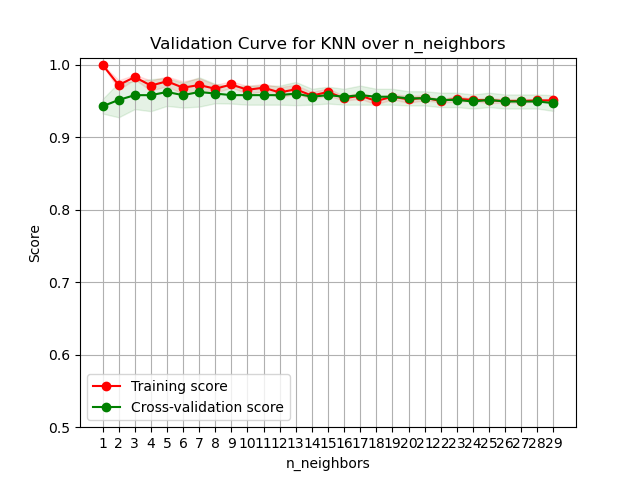
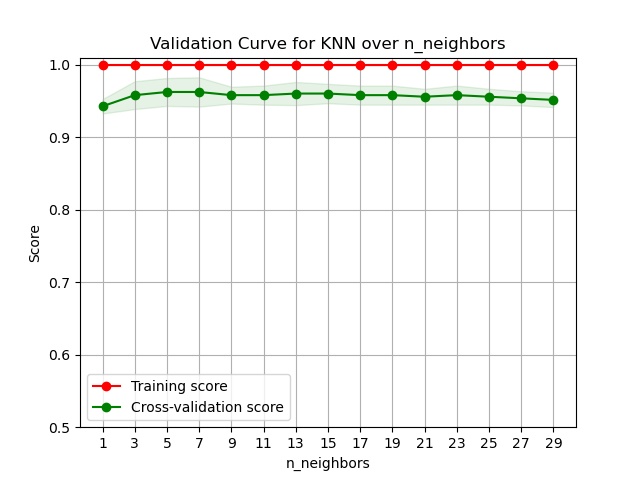
pr1 update figures

diff --git a/pr1/DT.py b/pr1/DT.py
@@ -9,15 +9,11 @@ import util
 
 class DecisionTree(object):
 
-    def __init__(self, dataset, verbose=False, max_depth=30, min_samples_leaf=10, min_samples_split=5, ccp_alpha=5):
+    def __init__(self, dataset, verbose=False):
         """
         decision tree initialization
         """
         self.verbose = verbose
-        self.max_depth = max_depth
-        self.min_samples_leaf = min_samples_leaf
-        self.min_samples_split = min_samples_split
-        self.ccp_alpha = ccp_alpha
         self.clf = None
         self.dataset = dataset
 
@@ -30,27 +26,27 @@ class DecisionTree(object):
 
         print("At depth:", clf_dt.tree_.max_depth)
         print("Decision Tree Accuracy on the Train set: ", clf_dt.score(X_train, y_train))
-        self.clf = clf_dt
 
-        params = {'max_depth': np.arange(1, self.max_depth+1),
-         'min_samples_split': np.arange(2, self.min_samples_split+1),
-         'min_samples_leaf': np.arange(1, self.min_samples_leaf+1),
-         'ccp_alpha': np.linspace(0, 0.035, self.ccp_alpha)}
+        params = {'max_depth': np.arange(1, 20),
+         'min_samples_leaf': np.arange(1, 20),
+         'ccp_alpha': np.linspace(0, 0.035, 20)}
 
-        gcv = GridSearchCV(estimator=clf_dt,param_grid=params)
+        gcv = GridSearchCV(estimator=clf_dt,param_grid=params, cv=4)
         gcv.fit(X_train,y_train)
         best_dt = gcv.best_estimator_
         print("Best parameters:", gcv.best_params_)
-        best_dt.fit(X_train, y_train)
-        print("At depth:", best_dt.tree_.max_depth)
-        print("Decision Tree Accuracy on the Train set (with pruning): ", best_dt.score(X_train, y_train))
-        self.clf = best_dt
+
 
         if self.verbose:
-
-            util.plot_learning_curve(self.dataset, estimator=clf_dt, X_train=X_train, y_train=y_train, param_range=np.linspace(0.1,1,5), title="Learning Curve for Decision Tree")
-            util.plot_validation_curve(self.dataset, clf_dt, X_train, y_train, title="Validation Curve for Decision Tree over max_depth", xlabel='max_depth', p_name="max_depth", p_range=np.arange(1, self.max_depth+1), cv=4)
-            util.plot_validation_curve(self.dataset, clf_dt, X_train, y_train, title="Validation Curve for Decision Tree over min_samples_split", xlabel='min_sample_split', p_name="min_samples_split", p_range=np.arange(2, self.min_samples_split+1), cv=4)
+            util.plot_learning_curve(self.dataset, estimator=best_dt, X_train=X_train, y_train=y_train, param_range=np.linspace(0.1,1,5), title="Learning Curve for Decision Tree")
+            util.plot_validation_curve(self.dataset, best_dt, X_train, y_train, title="Validation Curve for Decision Tree over max_depth", xlabel='max_depth', p_name="max_depth", p_range=np.arange(1, 30, 2), cv=4)
+            util.plot_validation_curve(self.dataset, best_dt, X_train, y_train, title="Validation Curve for Decision Tree over ccp_alpha", xlabel='ccp_alpha', p_name="ccp_alpha", p_range=np.linspace(0, 0.035, 10),  cv=4)
+            util.plot_validation_curve(self.dataset, best_dt, X_train, y_train, title="Validation Curve for Decision Tree over min_samples_leaf", xlabel='min_samples_leaf', p_name="min_samples_leaf", p_range=np.arange(1, 100, 10), cv=4)
+        
+        best_dt.fit(X_train, y_train)
+        print("At depth:", best_dt.tree_.max_depth)
+        print("Best Decision Tree Accuracy on the Train set: ", best_dt.score(X_train, y_train))
+        self.clf = best_dt
 
     def query(self, X_test, y_test):
         y_pred = self.clf.predict(X_test)

diff --git a/pr1/Boosting.py b/pr1/Boosting.py
@@ -17,19 +17,28 @@ class BoostClassifier(object):
 
     def train(self, X_train, y_train):
         # set up a weak learner
-        base_clf = DecisionTreeClassifier(max_depth=3, min_samples_leaf=1, min_samples_split=5, ccp_alpha=0.0, random_state=42)
+        base_clf = DecisionTreeClassifier(max_depth=3, min_samples_leaf=1, min_samples_split=5, ccp_alpha=0.0005, random_state=42)
         base_clf.fit(X_train, y_train)
         print("At depth:", base_clf.tree_.max_depth)
         print("Base Decision Tree Accuracy on the Train set: ", base_clf.score(X_train, y_train))
-        boost_clf = AdaBoostClassifier(base_clf, n_estimators=200, random_state=42)
-        boost_clf.fit(X_train, y_train)
-        print("Boost Decision Tree Accuracy on the Train set: ", boost_clf.score(X_train, y_train))
-        self.clf = boost_clf
+        clf_boost = AdaBoostClassifier(base_clf, random_state=42)
+        params = {'n_estimators': np.arange(1, 200, 20),
+                  'learning_rate': np.logspace(-3, 0, 5)}
+
+        gcv = GridSearchCV(estimator=clf_boost,param_grid=params, cv=4)
+        gcv.fit(X_train,y_train)
+        best_dt = gcv.best_estimator_
+        print("Best parameters:", gcv.best_params_)
         
 
         if self.verbose:
-            util.plot_learning_curve(self.dataset, estimator=boost_clf, X_train=X_train, y_train=y_train, param_range=np.linspace(0.1,1,5), title="Learning Curve for Boosting Decision Tree")
-            util.plot_validation_curve(self.dataset, boost_clf, X_train, y_train, title="Validation Curve for Boosting Decision Tree over n_estimators", xlabel='n_estimators', p_name="n_estimators", p_range=np.arange(1, 200, 20), cv=4)
+            util.plot_learning_curve(self.dataset, estimator=best_dt, X_train=X_train, y_train=y_train, param_range=np.linspace(0.1,1,5), title="Learning Curve for Boosting Decision Tree")
+            util.plot_validation_curve(self.dataset, best_dt, X_train, y_train, title="Validation Curve for Boosting Decision Tree over n_estimators", xlabel='n_estimators', p_name="n_estimators", p_range=np.arange(1, 200, 20), cv=4)
+            util.plot_validation_curve(self.dataset, best_dt, X_train, y_train, title="Validation Curve for Boosting Decision Tree over learning_rate", xlabel='learning_rate', p_name="learning_rate", p_range=np.logspace(-3, 0, 5), cv=4, log=True)
+
+        best_dt.fit(X_train, y_train)
+        print("Boost Decision Tree Accuracy on the Train set: ", best_dt.score(X_train, y_train))
+        self.clf = best_dt
 
     def query(self, X_test, y_test):
         y_pred = self.clf.predict(X_test)

diff --git a/pr1/NN.py b/pr1/NN.py
@@ -23,7 +23,8 @@ class NeuralNetwork(object):
         build and train decision tree
         """
         clf_nn = MLPClassifier(random_state=42, max_iter=5000)
-        param_grid = {'hidden_layer_sizes': np.arange(1, 30)}
+        param_grid = {'hidden_layer_sizes': np.arange(1, 30),
+                      'activation': ['identity', 'logistic', 'tanh', 'relu']}
         clf_nn.fit(X_train,y_train)
         print("NN Accuracy on the Train set: ", clf_nn.score(X_train, y_train))
 
@@ -32,13 +33,14 @@ class NeuralNetwork(object):
         grid_search.fit(X_train, y_train)
         best_nn = grid_search.best_estimator_
         print("Best parameters:", grid_search.best_params_)
+
+        if self.verbose:
+            util.plot_learning_curve(self.dataset, best_nn, X_train, y_train, np.linspace(.1, 1.0, 5), title="Learning Curve for NN")
+            util.plot_validation_curve(self.dataset, best_nn, X_train, y_train, title="Validation Curve for Neural Network over hidden_layer_sizes", xlabel='hidden_layer_sizes', p_name="hidden_layer_sizes", p_range=np.arange(1, 30), cv=4)
+            util.plot_validation_curve(self.dataset, best_nn, X_train, y_train, title="Validation Curve for Neural Network over activation", xlabel='activation', p_name="activation", p_range=['identity', 'logistic', 'tanh', 'relu'], cv=4)
         best_nn.fit(X_train, y_train)
         print("Best NN Accuracy on the Train set: ", best_nn.score(X_train, y_train))
         self.clf = best_nn
-
-        if self.verbose:
-            util.plot_learning_curve(self.dataset, clf_nn, X_train, y_train, np.linspace(.1, 1.0, 5), title="Learning Curve for NN")
-            util.plot_validation_curve(self.dataset, clf_nn, X_train, y_train, title="Validation Curve for Neural Network over hidden_layer_sizes", xlabel='hidden_layer_sizes', p_name="hidden_layer_sizes", p_range=np.arange(1, 30), cv=4)
 
     def query(self, X_test, y_test):
         y_pred = self.clf.predict(X_test)

diff --git a/pr1/SVM.py b/pr1/SVM.py
@@ -27,7 +27,7 @@ class SupportVectorMachine(object):
         build and train decision tree
         """
         clf_svm = SVC(random_state=42)
-        param_grid = {'C': np.logspace(-3, 2, 6),
+        param_grid = {'C': np.logspace(-5, 5, 10),
                       'kernel': ['linear', 'poly', 'rbf', 'sigmoid']}
         clf_svm.fit(X_train,y_train)
         print("SVM Accuracy on the Train set: ", clf_svm.score(X_train, y_train))
@@ -37,14 +37,17 @@ class SupportVectorMachine(object):
         grid_search.fit(X_train, y_train)
         best_svm = grid_search.best_estimator_
         print("Best parameters:", grid_search.best_params_)
-        best_svm.fit(X_train, y_train)
-        print("Best SVM Accuracy on the Train set: ", best_svm.score(X_train, y_train))
-        self.clf = best_svm
+        
 
 
         if self.verbose:
-            util.plot_learning_curve(self.dataset, clf_svm, X_train, y_train, np.linspace(.1, 1.0, 5), title="Learning Curve for SVM")
-            util.plot_validation_curve(self.dataset, clf_svm, X_train, y_train, title="Validation Curve for SVM over C", xlabel='C', p_name="C", p_range=np.logspace(-3, 2, 6), cv=4, log = True)
+            util.plot_learning_curve(self.dataset, best_svm, X_train, y_train, np.linspace(.1, 1.0, 5), title="Learning Curve for SVM")
+            util.plot_validation_curve(self.dataset, best_svm, X_train, y_train, title="Validation Curve for SVM over C", xlabel='C', p_name="C", p_range=np.logspace(-5, 5, 10), cv=4, log = True)
+            util.plot_validation_curve(self.dataset, best_svm, X_train, y_train, title="Validation Curve for SVM over kernel", xlabel='kernel', p_name="kernel", p_range=['linear', 'poly', 'rbf', 'sigmoid'], cv=4)
+
+        best_svm.fit(X_train, y_train)
+        print("Best SVM Accuracy on the Train set: ", best_svm.score(X_train, y_train))
+        self.clf = best_svm
 
     def query(self, X_test, y_test):
         y_pred = self.clf.predict(X_test)

diff --git a/pr1/KNN.py b/pr1/KNN.py
@@ -27,18 +27,20 @@ class KNeareatNeighbor(object):
         clf_knn.fit(X_train,y_train)
         print("KNN Accuracy on the Train set: ", clf_knn.score(X_train, y_train))
 
-        grid_search = GridSearchCV(estimator=clf_knn, param_grid=param_grid)
+        grid_search = GridSearchCV(estimator=clf_knn, param_grid=param_grid, cv=4)
         
         grid_search.fit(X_train, y_train)
         best_knn = grid_search.best_estimator_
         print("Best parameters:", grid_search.best_params_)
+
+        if self.verbose:
+            util.plot_learning_curve(self.dataset, estimator=best_knn, X_train=X_train, y_train=y_train, param_range=np.linspace(0.1,1,5), title="Learning Curve for KNN")
+            util.plot_validation_curve(self.dataset, best_knn, X_train, y_train, title="Validation Curve for KNN over n_neighbors", xlabel='n_neighbors', p_name="n_neighbors", p_range=np.arange(1, 30, 2), cv=4)
+            util.plot_validation_curve(self.dataset, best_knn, X_train, y_train, title="Validation Curve for KNN over weights", xlabel='weights', p_name="weights", p_range=['uniform', 'distance'], cv=4)
+        
         best_knn.fit(X_train, y_train)
         print("Best KNN Accuracy on the Train set: ", best_knn.score(X_train, y_train))
         self.clf = best_knn
-
-        if self.verbose:
-            util.plot_learning_curve(self.dataset, estimator=clf_knn, X_train=X_train, y_train=y_train, param_range=np.linspace(0.1,1,5), title="Learning Curve for KNN")
-            util.plot_validation_curve(self.dataset, clf_knn, X_train, y_train, title="Validation Curve for KNN over n_neighbors", xlabel='n_neighbors', p_name="n_neighbors", p_range=np.arange(1, 30), cv=4)
 
     def query(self, X_test, y_test):
         y_pred = self.clf.predict(X_test)

diff --git a/pr1/util.py b/pr1/util.py
@@ -3,6 +3,7 @@ from matplotlib import pyplot as plt
 from sklearn.model_selection import learning_curve
 from sklearn.model_selection import validation_curve
 import numpy as np
+from sklearn.model_selection import KFold
 
 
 def plot_learning_curve(dataset, estimator, X_train, y_train, param_range, title="", ylim=(0.5, 1.01), show=False):
@@ -37,7 +38,7 @@ def plot_learning_curve(dataset, estimator, X_train, y_train, param_range, title
 
 def plot_validation_curve(dataset, clf_dt, X_train, y_train, title, xlabel, p_name="max_depth", p_range=np.arange(1, 31), cv=4, log=False, ylim=(0.5, 1.01), show=False):
     plt.figure()
-    train_scores, valid_scores = validation_curve(clf_dt, X_train, y_train, param_name=p_name, param_range=p_range, cv=cv)
+    train_scores, valid_scores = validation_curve(clf_dt, X_train, y_train, param_name=p_name, param_range=p_range, cv=cv, n_jobs=-1, verbose=0)
     train_scores_mean = np.mean(train_scores, axis=1)
     train_scores_std = np.std(train_scores, axis=1)
     test_scores_mean = np.mean(valid_scores, axis=1)

diff --git a/pr1/experiment2.py b/pr1/experiment2.py
@@ -40,7 +40,7 @@ def main():
     #
     # Load breast cancer wisconsin dataset
     #
-    np.random.seed(902764819)
+    # np.random.seed(902764819)
     print('Loading Breast Cancer Wisconsin dataset...')
     data = pd.read_csv('data/breast_cancer_wisconsin.csv')
     data.drop(columns=['id', 'Unnamed: 32'], axis=1, inplace=True)

diff --git a/pr1/experiment1.py b/pr1/experiment1.py
@@ -36,7 +36,7 @@ def main():
     #
     # Load MINST dataset
     #
-    np.random.seed(902764819)
+    # np.random.seed(902764819)
     print('Loading MNIST dataset...')
     digits = datasets.load_digits()
 

diff --git a/pr1/main.py b/pr1/main.py
@@ -1,6 +1,8 @@
 import experiment1 as exp1
 import experiment2 as exp2
+import numpy as np
 
 if __name__ == '__main__':
+    np.random.seed(902764819)
     exp1.main()
     exp2.main()
